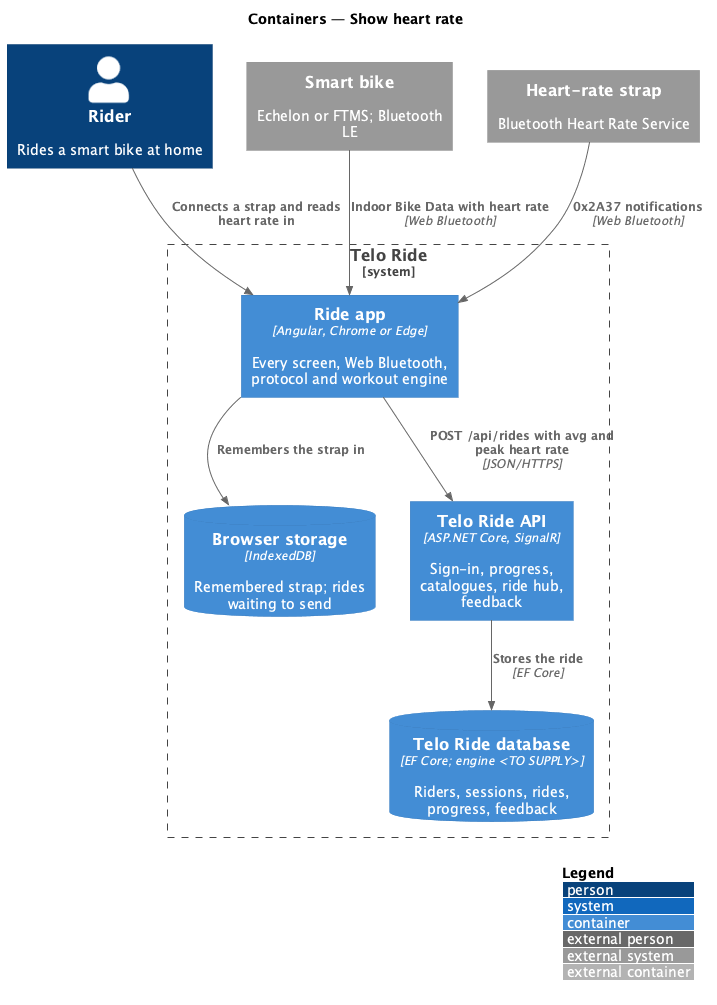
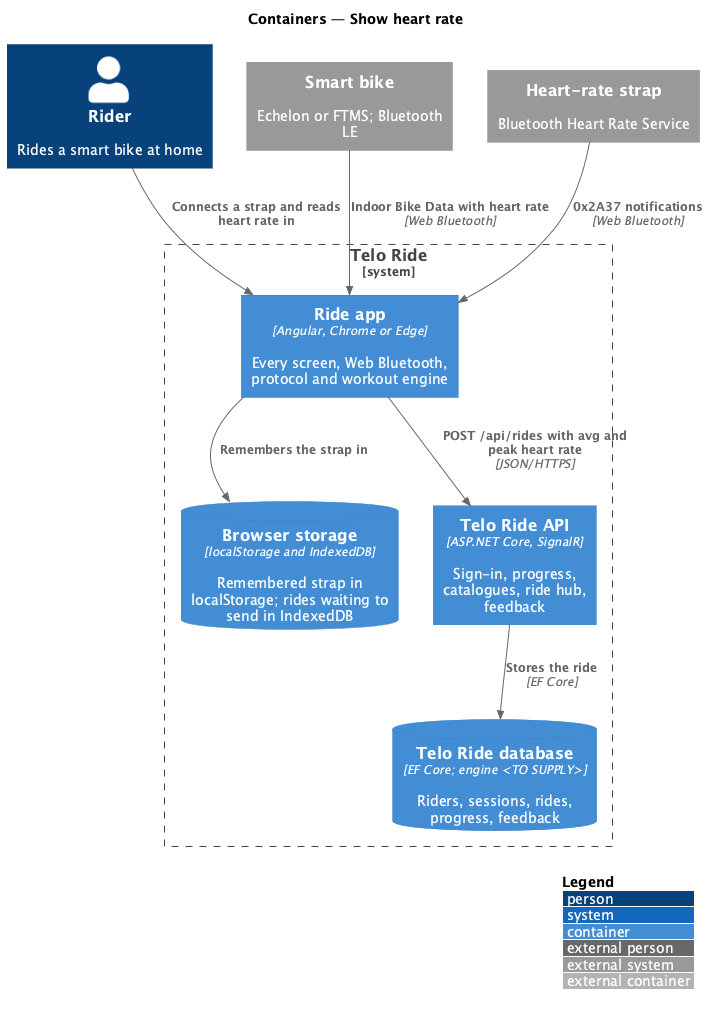
Align the heart-rate design with slice 3.3
The strap's states are lower-case and it exposes its name; the strap
and the bike each blank their heart rate after 5 quiet seconds, so
HeartRateSource takes the first that reports; the remembered strap is a
localStorage record like the remembered bike; HeartRateStats reads the
source. Slice 20.1's Settings page adds the connect action, its mock,
the binding and the Playwright proof.

diff --git a/docs/detailed-designs/bike/show-heart-rate/README.md b/docs/detailed-designs/bike/show-heart-rate/README.md
@@ -17,16 +17,18 @@ ADR 0003 records that the app reads no heart-rate sensor and shows heart rate as
 
 The slice lives mostly in the Ride app; the backend receives the two figures with each submitted ride.
 
-- **`HeartRateStrap`** — contract in `api` with token `HEART_RATE_STRAP`. It exposes `state` (`None`, `Connecting`, `Connected`, `Disconnected`), `bpm`, `choose()`, `reconnectRemembered()` and `disconnect()`.
-- **`WebBluetoothHeartRateStrap`** — implementation in `domain`'s `bluetooth/` folder. `choose()` runs from a click on Profile's Settings and calls `requestDevice` filtered to the Heart Rate service (`0x180D`). After connecting, it subscribes to Heart Rate Measurement (`0x2A37`). On a drop it starts a `DeviceReconnector` that retries every 3 seconds. When Telo Ride opens with a remembered strap and `getDevices()` exists, `reconnectRemembered()` finds the permitted device and reconnects as soon as it advertises. Listeners and the reconnector are released with the service.
-- **`HeartRateMeasurementDecoder`** — codec in `domain`'s `protocol/` folder. It reads flags bit 0 and returns the bpm from a uint8 (bit 0 clear) or a little-endian uint16 (bit 0 set).
-- **`RememberedStrapStore`** — store in `domain`'s `storage/` folder that keeps the strap's device id in IndexedDB.
-- **`BikeTelemetry`** — the telemetry service from [read-bike-telemetry](../read-bike-telemetry/README.md). It supplies heart rate when an FTMS bike's Indoor Bike Data carries it.
-- **`HeartRateSource`** — service in `domain`'s `engine/` folder. Its `bpm` signal uses the strap's value when the strap reports one, otherwise the bike's, otherwise `null`. A source that reports nothing for 5 seconds no longer counts, so a dropped strap shows "—" within 5 seconds while the ride carries on. `announcement` reads "No heart rate" when `bpm` is `null`.
-- **`HeartRateStats`** — service in `domain`'s `engine/` folder. On each running second it updates the ride's average and peak heart rate from the shown value, holding two numbers and a count rather than a trace.
+- **`HeartRateStrap`** — contract in `api` with token `HEART_RATE_STRAP`. It exposes `state` (`none`, `connecting`, `connected`, `disconnected`), `name` (rendered as text), `bpm`, `choose()`, `reconnectRemembered()` and `disconnect()`.
+- **`WebBluetoothHeartRateStrap`** — implementation in `domain`'s `bluetooth/` folder. `choose()` runs from a click on Profile's Settings and calls `requestDevice` filtered to the Heart Rate service (`0x180D`). After connecting, it subscribes to Heart Rate Measurement (`0x2A37`). On a drop it starts a `DeviceReconnector` that retries every 3 seconds. When Telo Ride opens with a remembered strap and `getDevices()` exists, `reconnectRemembered()` finds the permitted device and reconnects as soon as it advertises. Five seconds without a measurement blank `bpm`, and so does a drop. Errors go to the console as `name: message`. Listeners, the timer and the reconnector are released with the service.
+- **`HeartRateMeasurementDecoder`** — codec in `domain`'s `protocol/` folder. It reads flags bit 0 and returns the bpm from a uint8 (bit 0 clear) or a little-endian uint16 (bit 0 set), or `null`, never an error, for a notification too short for its value.
+- **`RememberedStrapStore`** — store in `domain`'s `storage/` folder that keeps the strap's device id and name as one JSON record in localStorage (`telo-ride.strap`), read synchronously like the remembered bike's. A record it cannot parse, or storage the browser refuses, counts as no strap.
+- **`BikeTelemetry`** — the telemetry service from [read-bike-telemetry](../read-bike-telemetry/README.md). It supplies heart rate when an FTMS bike's Indoor Bike Data carries it, `null` once it has carried none for 5 seconds.
+- **`HeartRateSource`** — service in `domain`'s `engine/` folder. Its `bpm` signal uses the strap's value when the strap reports one, otherwise the bike's, otherwise `null`. Each source blanks its own value after 5 seconds without a reading, so a dropped strap gives way to the bike, or shows "—", within 5 seconds while the ride carries on. `announcement` reads "Heart rate 142 bpm", or "No heart rate" when `bpm` is `null`.
+- **`HeartRateStats`** — service in `domain`'s `engine/` folder. On each running second (`onRunningSecond()`, from the ride screen's ticker) it takes in `HeartRateSource.bpm`, skipping seconds without one, and keeps the ride's average (rounded to a whole bpm) and peak, holding a sum, a count and a peak rather than a trace.
 - **`RideReadout`** — presentation component that renders the heart readout in bpm, or "—" announced as "No heart rate".
 - **Ride submission** — the finished ride carries `avgHeartRate` and `peakHeartRate` in its `RideSubmission`. It reaches `POST /api/rides` directly or later through the outbox (`L2-135`), and the backend stores both on the `Ride`. Submission belongs to [progression/keep-progress-on-the-backend](../../progression/keep-progress-on-the-backend/README.md).
 - **`SettingsPage`** — page in `ride` under Profile ([profile/change-settings](../../profile/change-settings/README.md)) that offers the action to connect a heart-rate strap. The strap's name and errors are rendered as text.
+
+Slice 3.3 builds the decoder, `BikeTelemetry`'s heart rate, the strap, its store, `HeartRateSource` and `HeartRateStats`, proved by one unit test per acceptance row with a fake strap. Connecting a strap needs Profile's Settings, which slice 20.1 builds (its mock is a recorded gap in `L2-031`): that slice adds the action and its mock, binds `HEART_RATE_STRAP` with `reconnectRemembered()` at start-up, and proves the path with Playwright through the fake Bluetooth. The heart readout comes with the ride screens (5.2, 7.3, 21.3), and the submission with journey 10.
 
 ## Requirements
 
